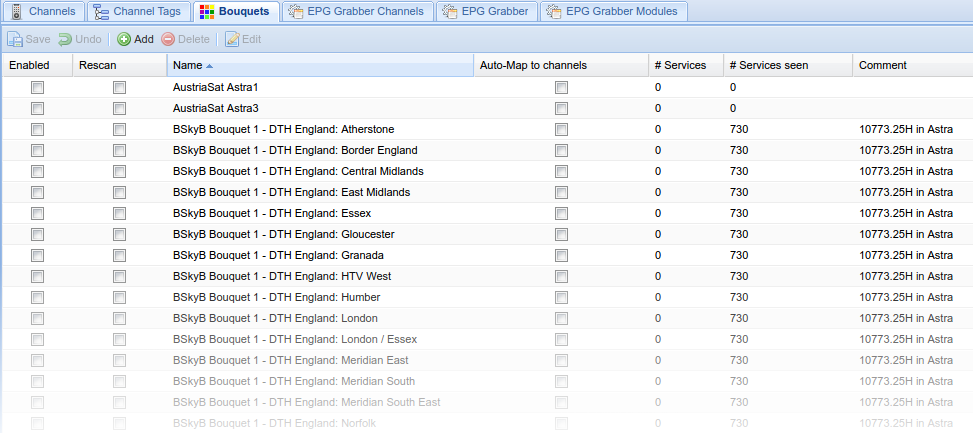
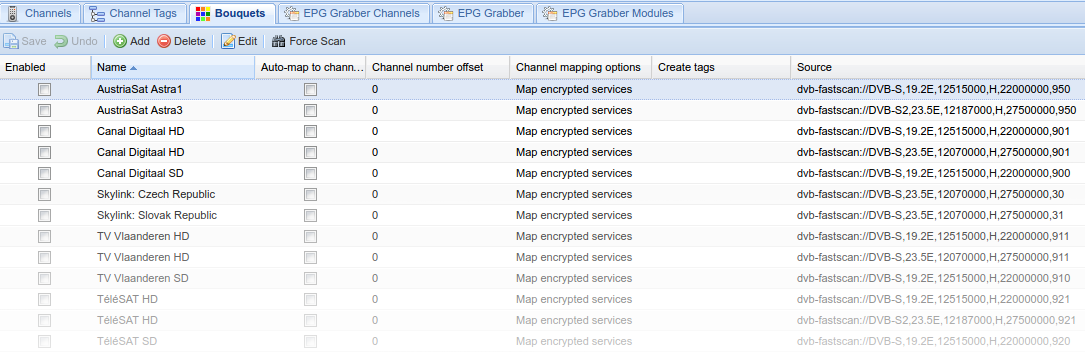
mdhelp: update screenshots to reflect recent changes to the webui mdhelp: change bouquet caption "Bouquet" -> "Bouquets"

diff --git a/src/bouquet.c b/src/bouquet.c
@@ -954,7 +954,7 @@ PROP_DOC(bouquet_tagging)
 
 const idclass_t bouquet_class = {
   .ic_class      = "bouquet",
-  .ic_caption    = N_("Bouquet"),
+  .ic_caption    = N_("Bouquets"),
   .ic_doc        = tvh_doc_bouquet_class,
   .ic_event      = "bouquet",
   .ic_perm_def   = ACCESS_ADMIN,
